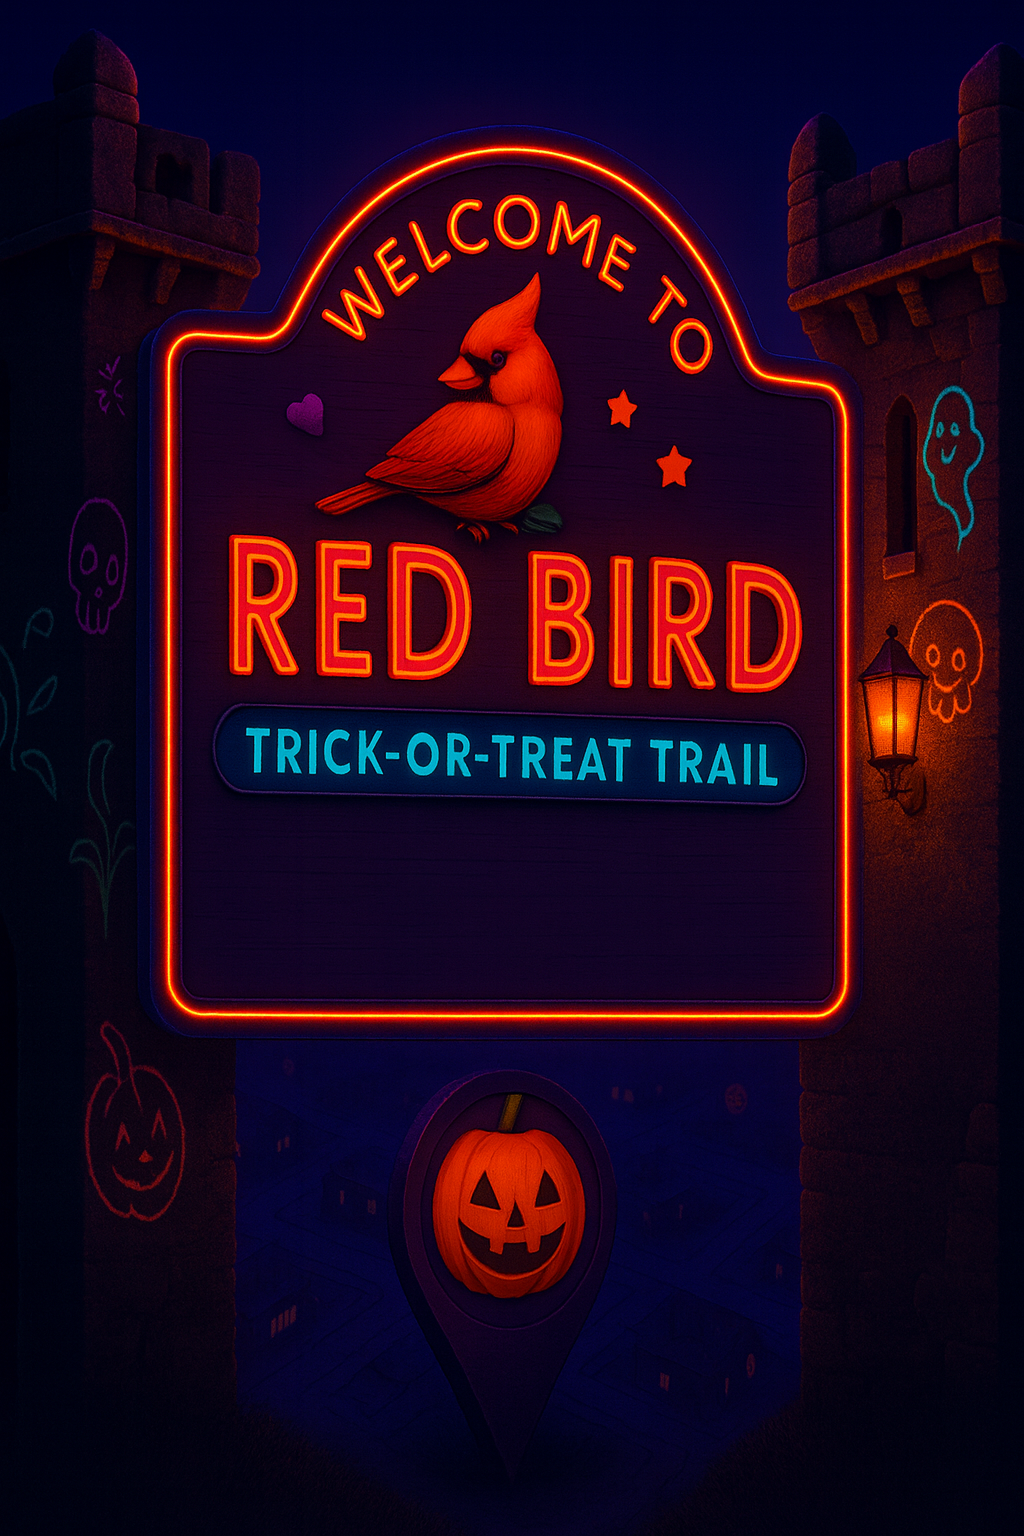
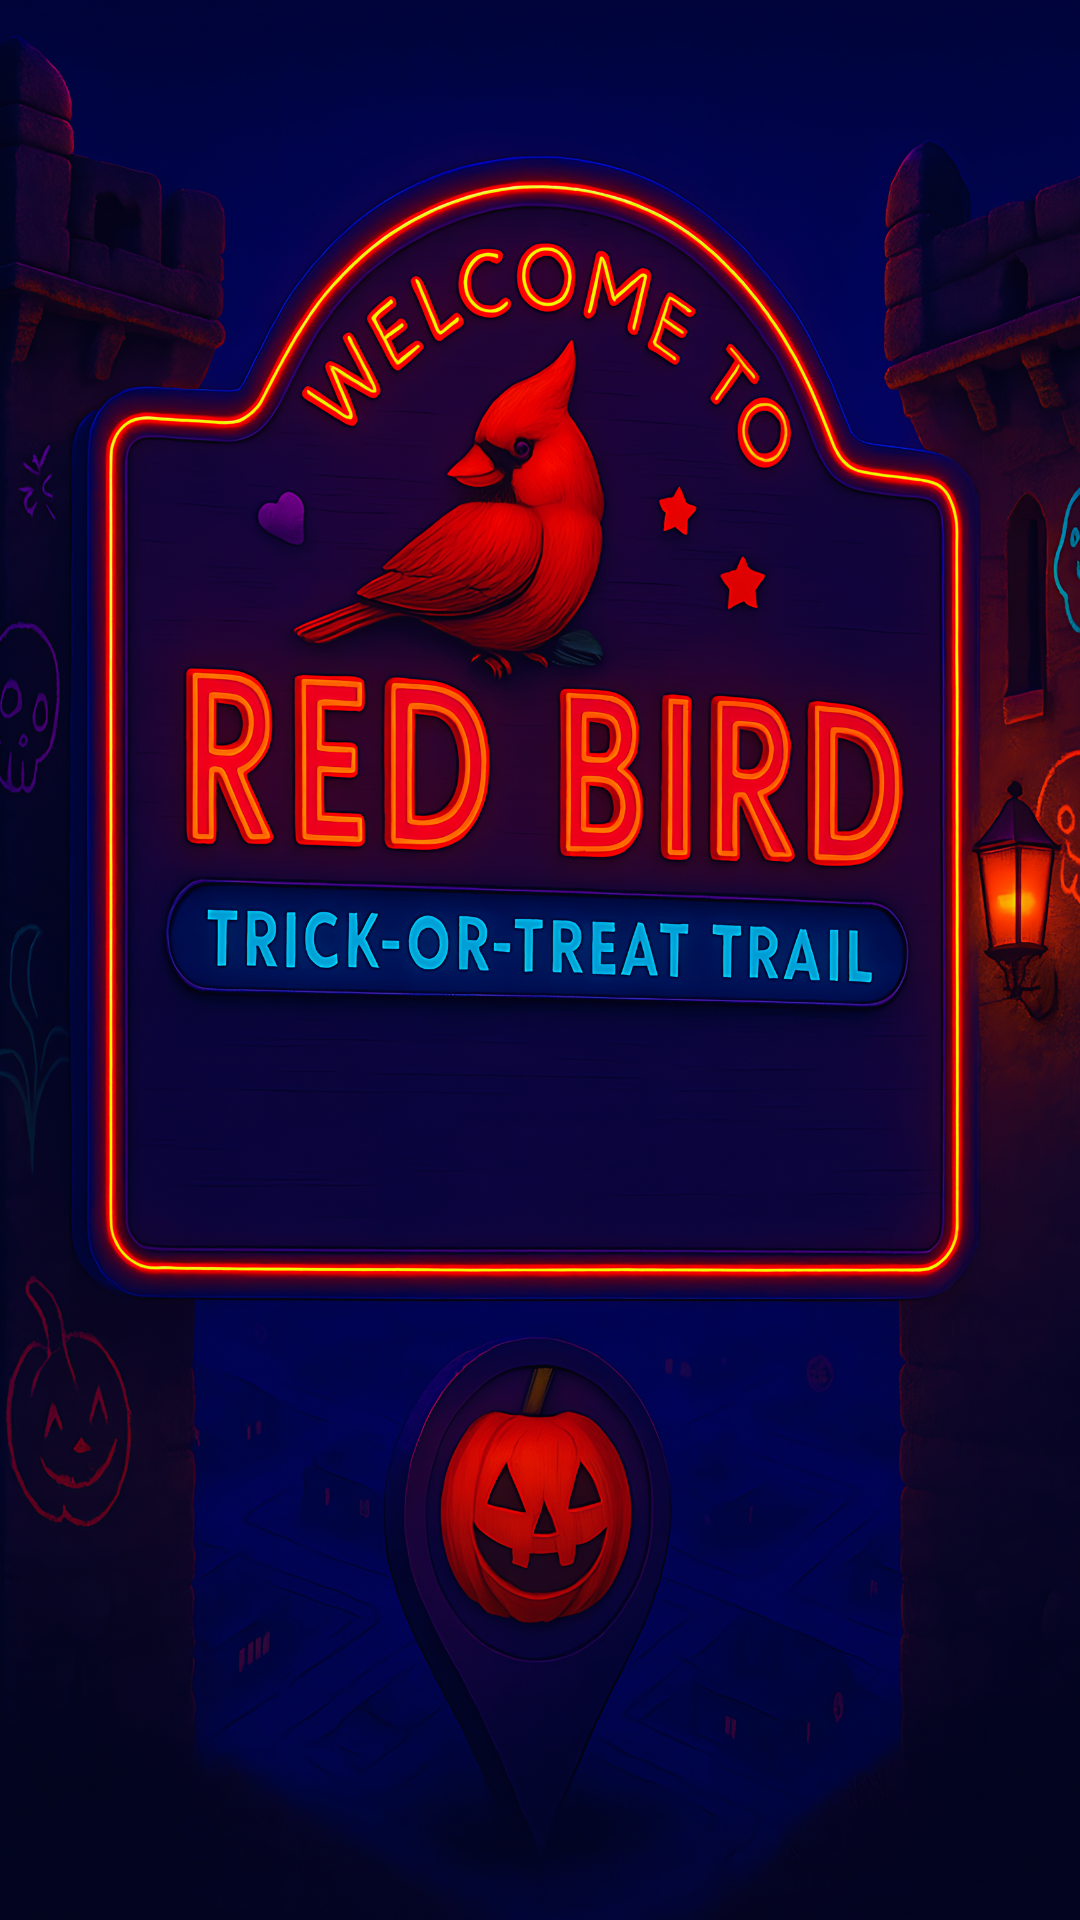
fix: shift mobile buttons 1.5% right, replace mobile bg with higher resolution MOBILE_MAIN_BG.png

diff --git a/css/styles.css b/css/styles.css
@@ -181,7 +181,7 @@ a:hover {
    ============================================ */
 @media (max-width: 899.98px) {
   .hero-btn-about {
-    left: 13%;
+    left: 14.5%;
     bottom: 38%;
     width: 20%;
     height: 4.5%;
@@ -190,7 +190,7 @@ a:hover {
   }
   
   .hero-btn-map {
-    left: 38.5%;
+    left: 40%;
     bottom: 38%;
     width: 20%;
     height: 4.5%;
@@ -199,7 +199,7 @@ a:hover {
   }
   
   .hero-btn-flyer {
-    left: 64%;
+    left: 65.5%;
     bottom: 38%;
     width: 20%;
     height: 4.5%;
